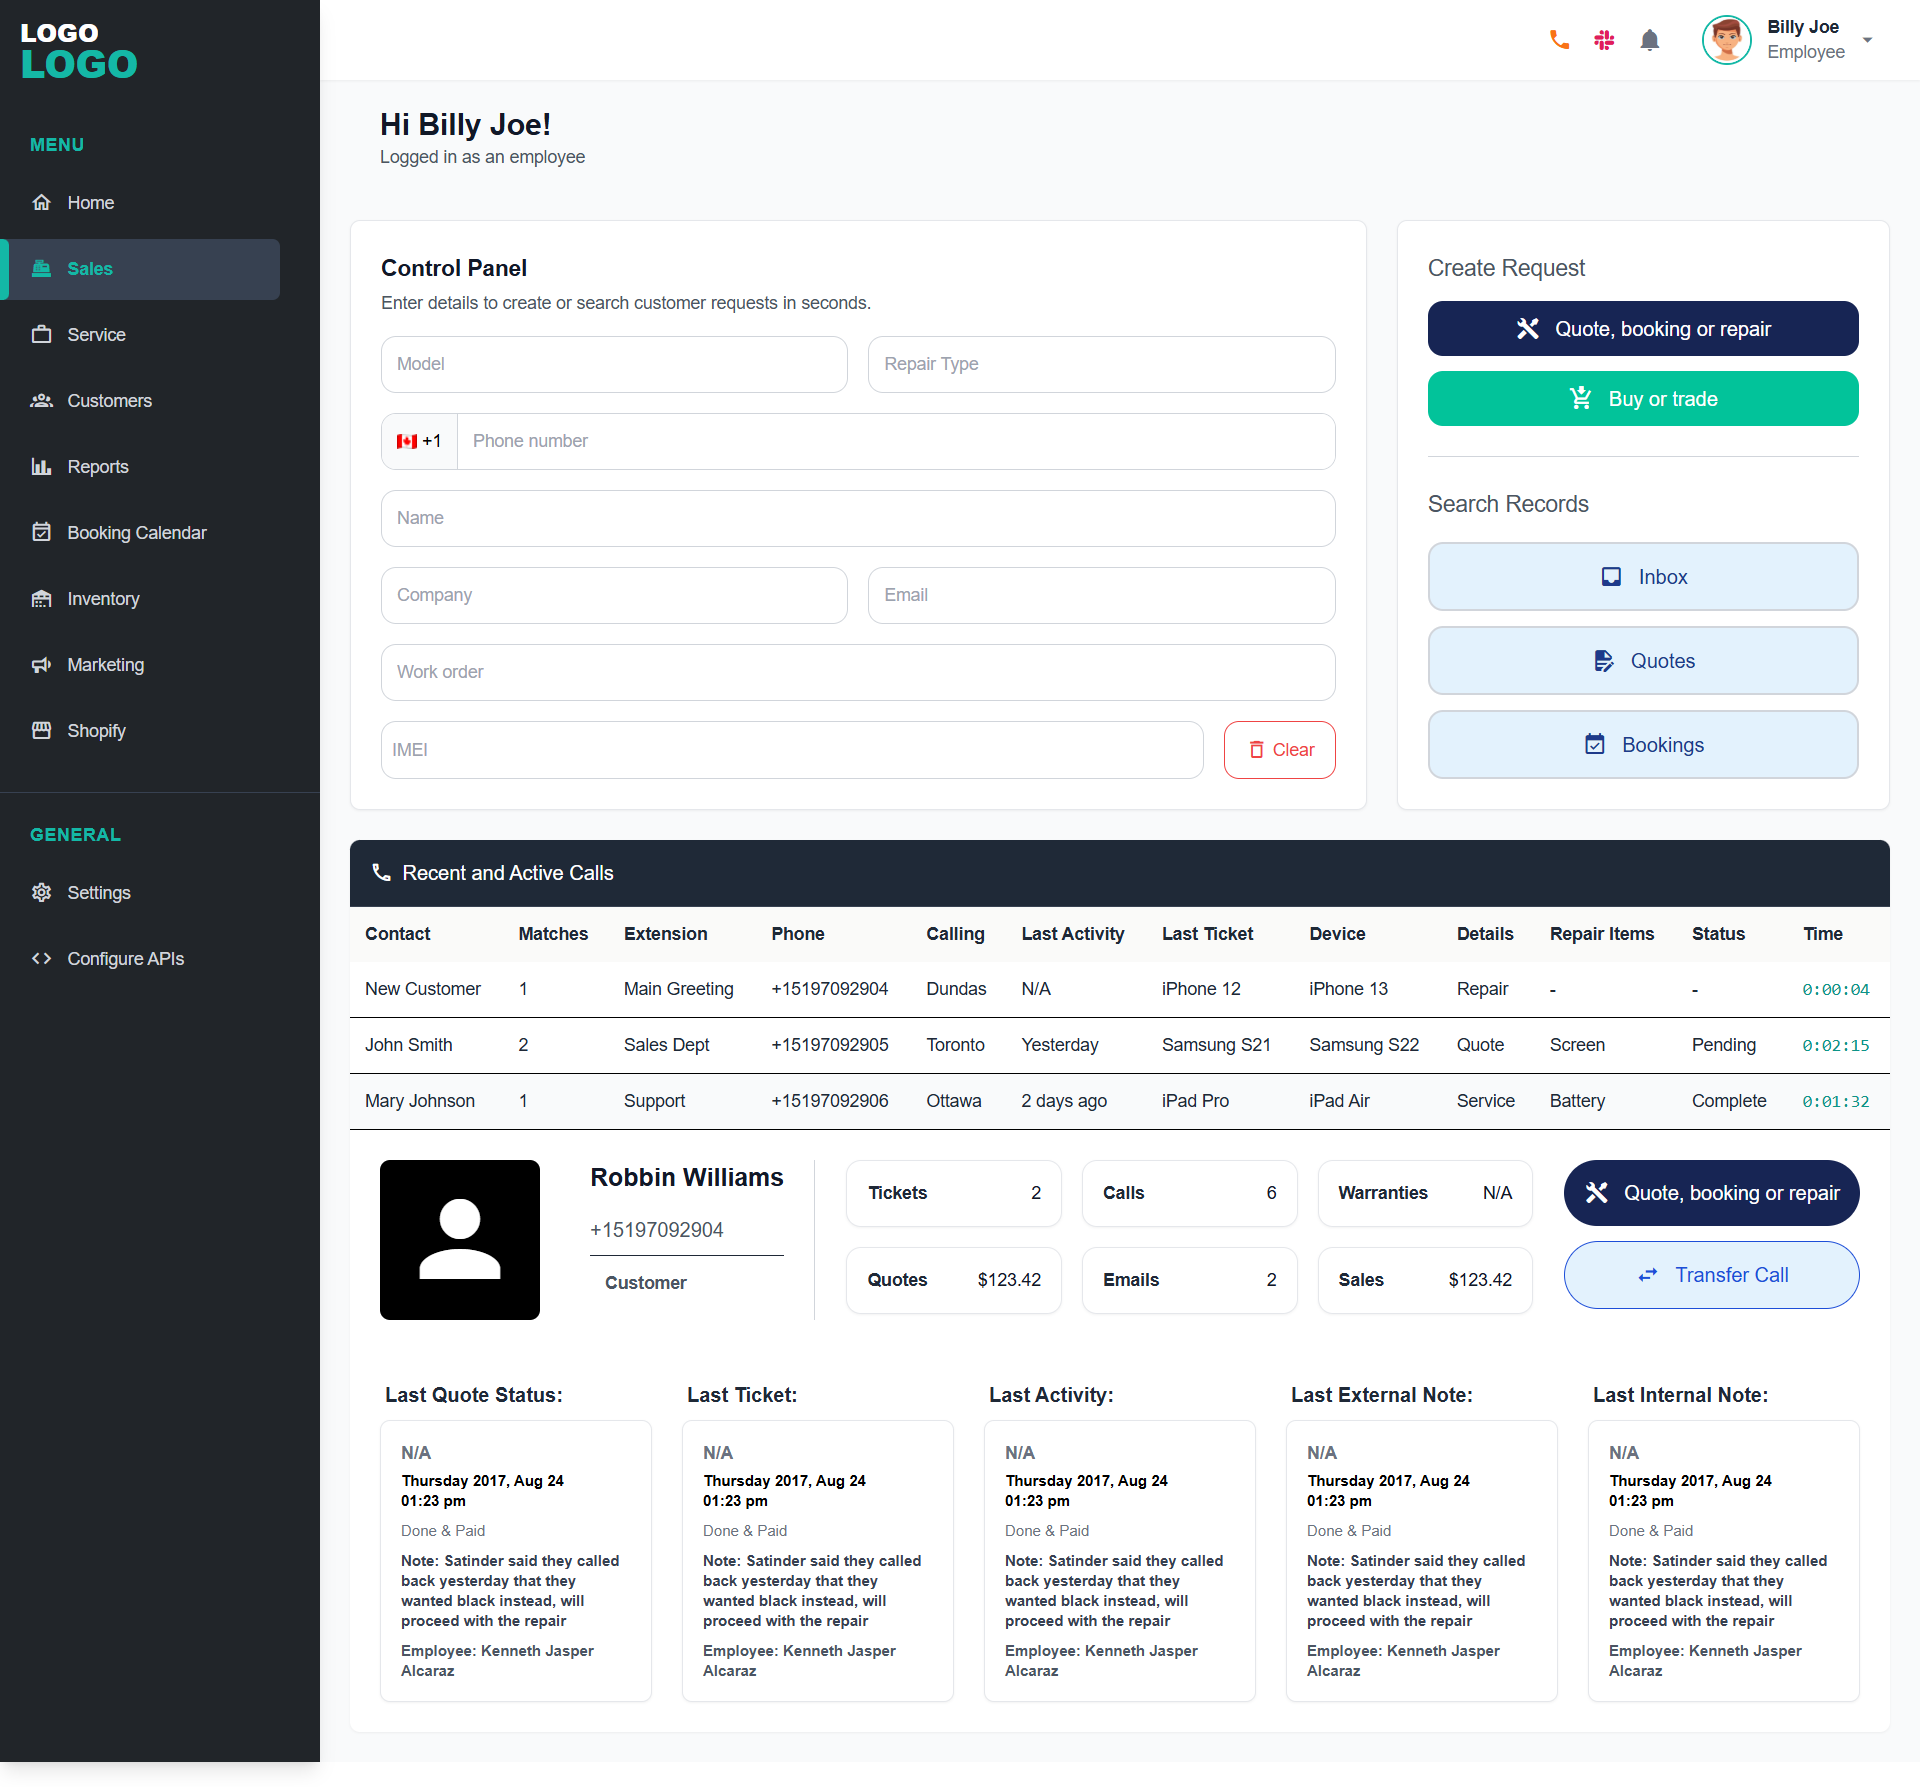
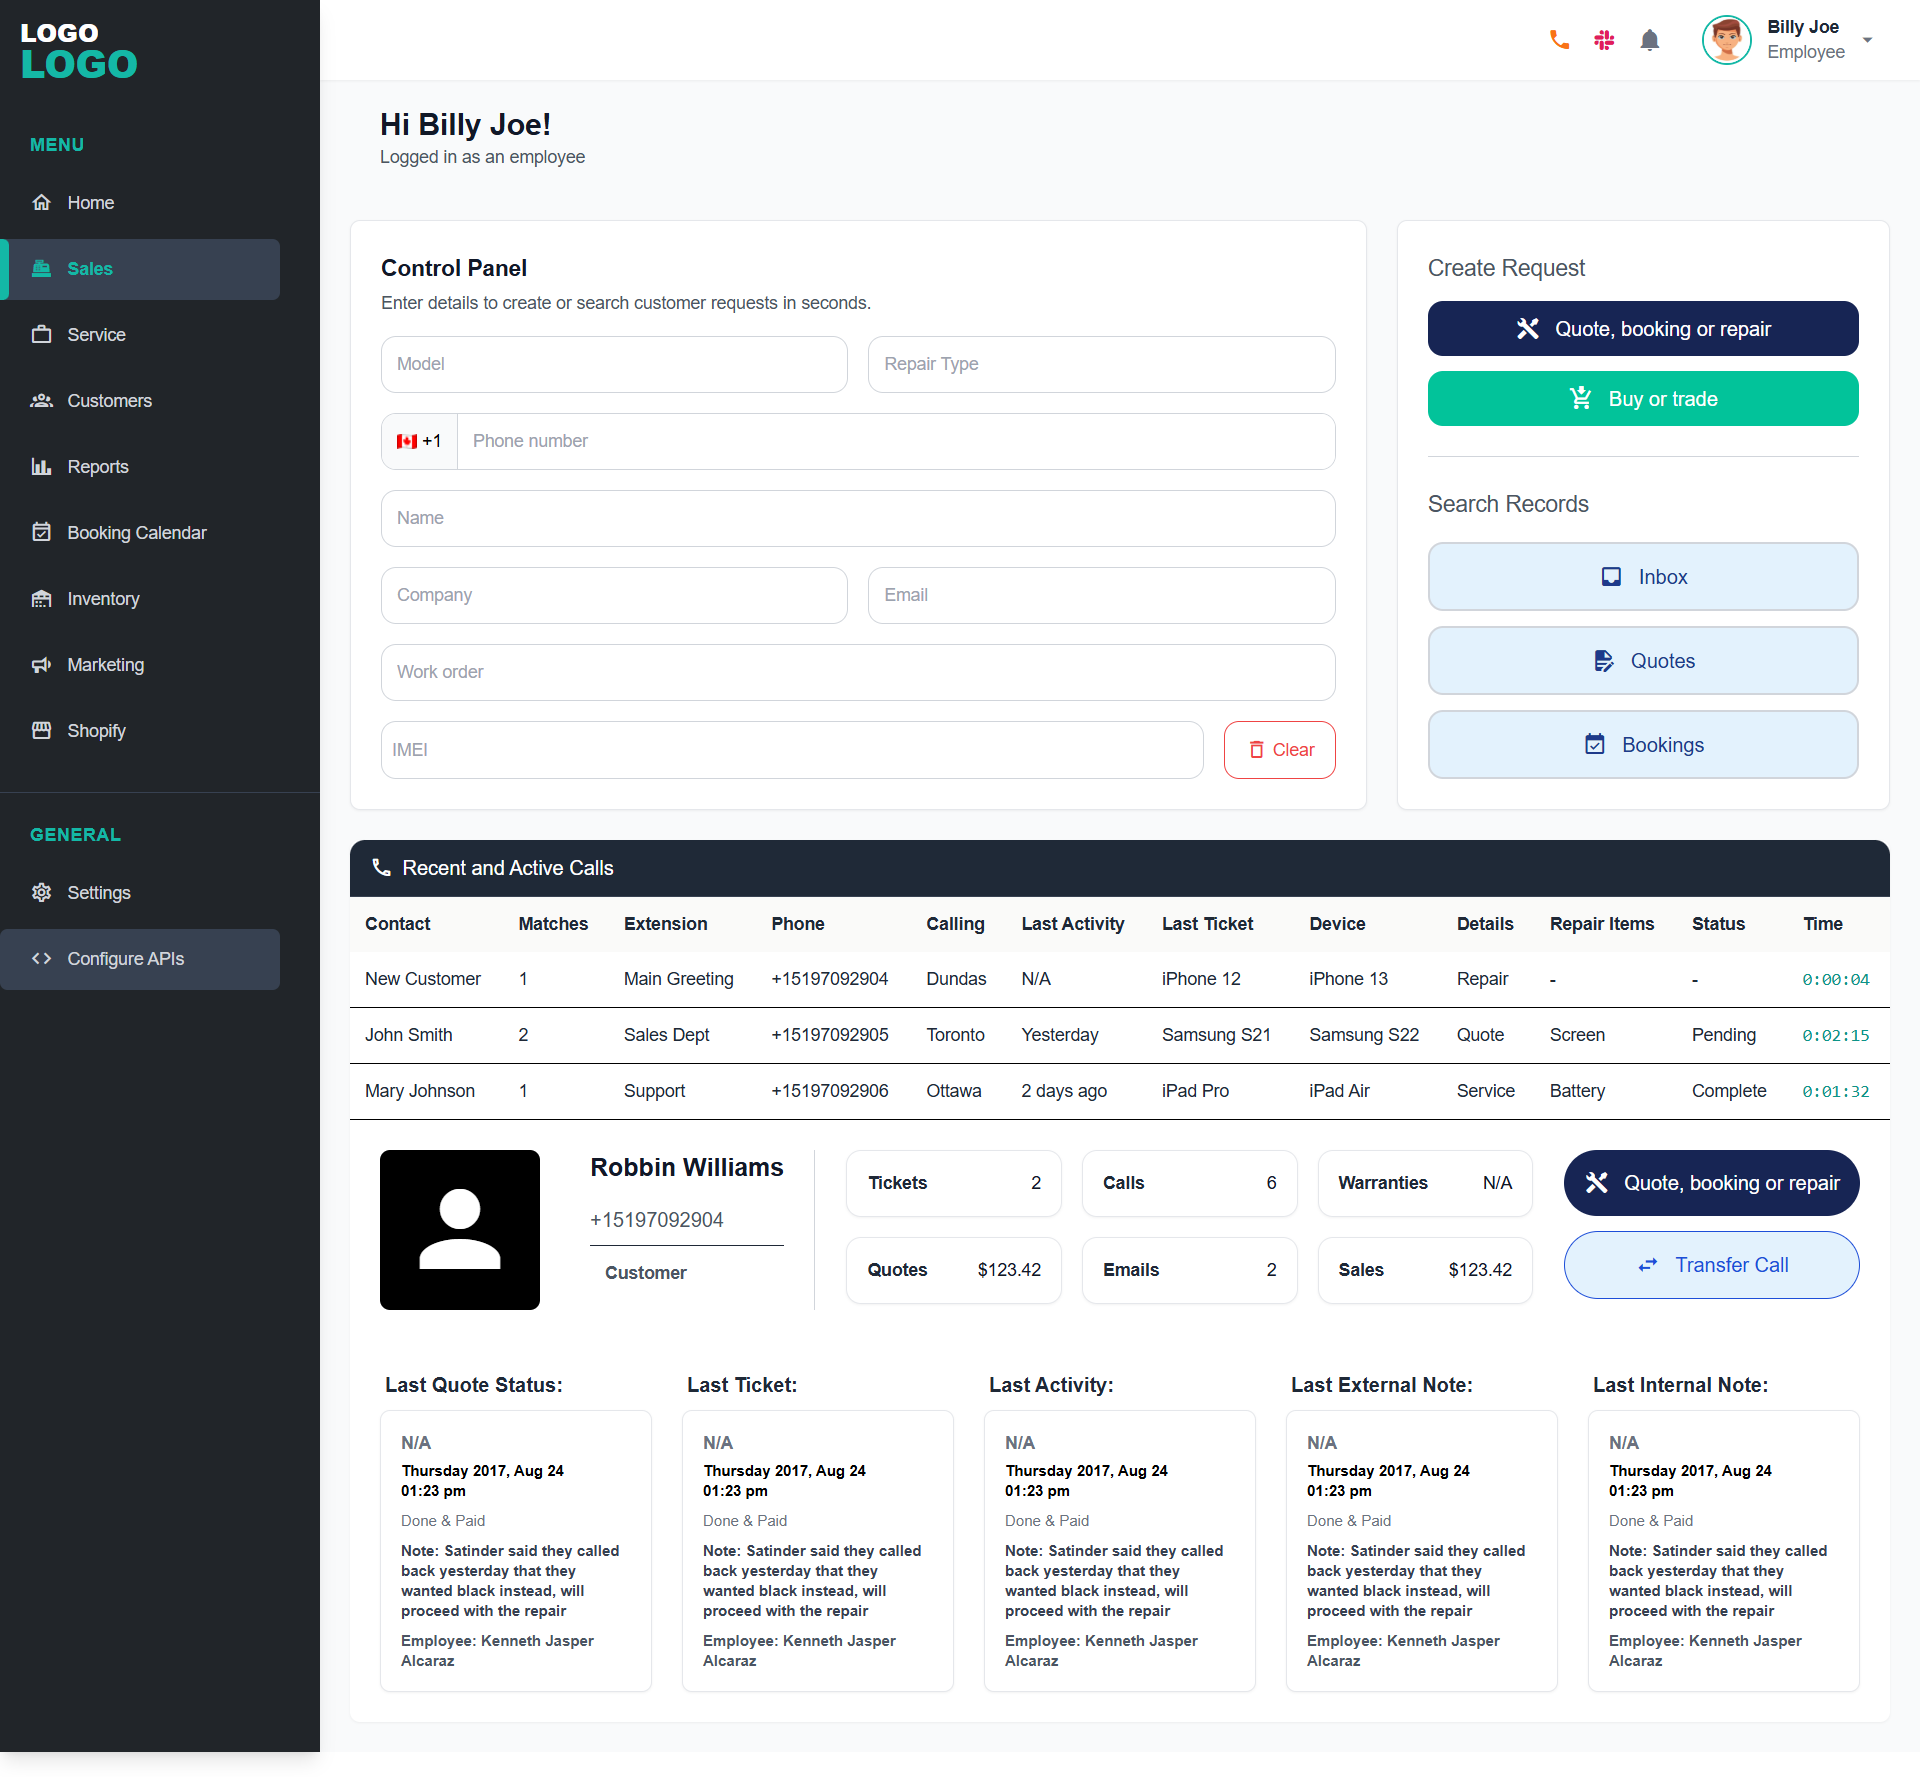
Update files

diff --git a/src/components/sales/RecentCallsTable.vue b/src/components/sales/RecentCallsTable.vue
@@ -1,6 +1,6 @@
 <template>
-    <div class="bg-gray-800 text-white rounded-t-lg">
-        <div class="flex items-center px-4 py-3 border-b border-gray-700">
+    <div class="bg-gray-800 text-white rounded-t-xl">
+        <div class="flex items-center px-4 py-2 border-b border-gray-700">
             <i class="mdi mdi-phone-outline text-lg mr-2"></i>
             <span class="font-medium text-sm sm:text-base">Recent and Active Calls</span>
         </div>
